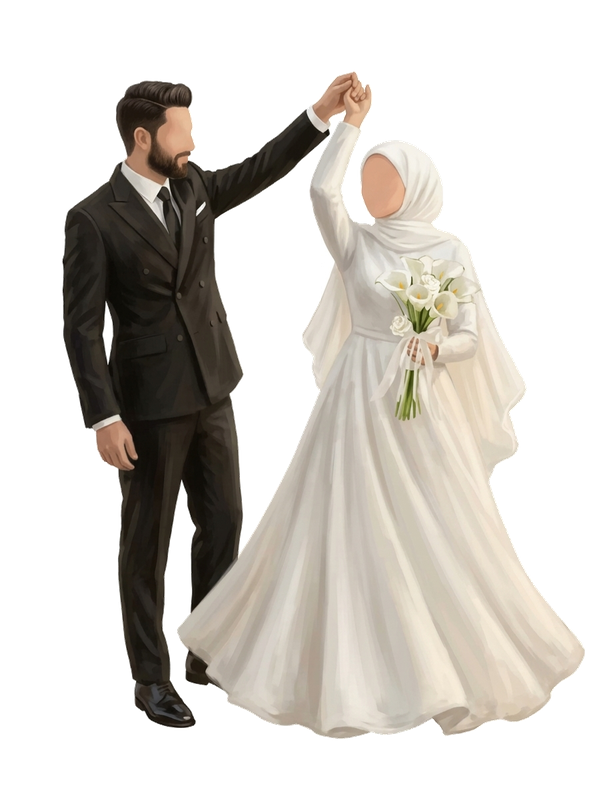
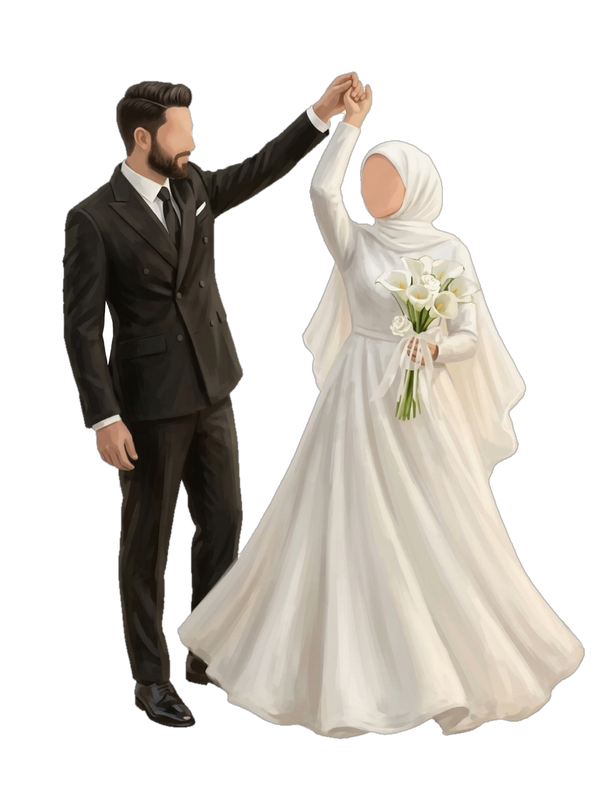
Use flawless high-resolution couple artwork on emerald arch

diff --git a/src/components/InteractiveFirstDance.jsx b/src/components/InteractiveFirstDance.jsx
@@ -2,15 +2,15 @@ import React, { useRef, useState, useEffect } from 'react';
 import confetti from 'canvas-confetti';
 import { Sparkles, Heart } from 'lucide-react';
 
-import coupleDanceGif from '../assets/images/couple-dance.gif';
+import coupleImage from '../assets/images/couple-dance.png';
 
 const InteractiveFirstDance = () => {
   const containerRef = useRef(null);
   const archRef = useRef(null);
-  const gifRef = useRef(null);
+  const imageRef = useRef(null);
   const particlesCanvasRef = useRef(null);
 
-  const [twirlCount, setTwirlCount] = useState(0);
+  const [celebrateCount, setCelebrateCount] = useState(0);
 
   // Sparkle particle system inside the arch
   useEffect(() => {
@@ -30,7 +30,7 @@ const InteractiveFirstDance = () => {
     window.addEventListener('resize', handleResize);
 
     // Ambient rising golden specks
-    const particles = Array.from({ length: 30 }, () => ({
+    const particles = Array.from({ length: 32 }, () => ({
       x: Math.random() * width,
       y: Math.random() * height,
       size: Math.random() * 2.2 + 0.8,
@@ -72,9 +72,9 @@ const InteractiveFirstDance = () => {
     };
   }, []);
 
-  // Trigger celebration confetti
+  // Trigger celebration confetti and gold glow
   const handleCelebrate = () => {
-    setTwirlCount((prev) => prev + 1);
+    setCelebrateCount((prev) => prev + 1);
 
     if (archRef.current) {
       const rect = archRef.current.getBoundingClientRect();
@@ -82,8 +82,8 @@ const InteractiveFirstDance = () => {
       const originY = (rect.top + rect.height * 0.5) / window.innerHeight;
 
       confetti({
-        particleCount: 28,
-        spread: 75,
+        particleCount: 30,
+        spread: 80,
         origin: { x: originX, y: originY },
         colors: ['#D4AF37', '#FCF6BA', '#F3D98B', '#FFFFFF', '#E8C868'],
         shapes: ['circle'],
@@ -118,7 +118,7 @@ const InteractiveFirstDance = () => {
         <div
           ref={archRef}
           onClick={handleCelebrate}
-          className="relative w-full h-[470px] sm:h-[550px] rounded-t-[140px] sm:rounded-t-[200px] rounded-b-2xl sm:rounded-b-3xl bg-gradient-to-b from-[#061812] via-[#09241B] to-[#040C08] border border-gold-primary/60 sm:border-2 shadow-gold-glow flex flex-col items-center justify-end overflow-hidden cursor-pointer group"
+          className="relative w-full h-[480px] sm:h-[560px] rounded-t-[140px] sm:rounded-t-[200px] rounded-b-2xl sm:rounded-b-3xl bg-gradient-to-b from-[#061812] via-[#09241B] to-[#040C08] border border-gold-primary/60 sm:border-2 shadow-gold-glow flex flex-col items-center justify-end overflow-hidden cursor-pointer group"
         >
           {/* Inner Moorish Arch Filigree Line */}
           <div className="pointer-events-none absolute inset-2 sm:inset-3 rounded-t-[132px] sm:rounded-t-[188px] rounded-b-xl sm:rounded-b-2xl border border-gold-primary/25" />
@@ -146,25 +146,25 @@ const InteractiveFirstDance = () => {
 
           {/* Floor Golden Spotlight Glow */}
           <div
-            className="absolute bottom-0 w-full h-44 pointer-events-none z-0"
+            className="absolute bottom-0 w-full h-48 pointer-events-none z-0"
             style={{
               background:
-                'radial-gradient(ellipse 70% 40% at 50% 90%, rgba(212, 175, 55, 0.35) 0%, rgba(212, 175, 55, 0.1) 50%, transparent 75%)',
+                'radial-gradient(ellipse 70% 45% at 50% 90%, rgba(212, 175, 55, 0.38) 0%, rgba(212, 175, 55, 0.12) 50%, transparent 75%)',
             }}
           />
 
-          {/* Animated Couple GIF Container */}
+          {/* Pristine Couple Image Container */}
           <div className="relative z-10 w-full h-full flex items-end justify-center pb-3 sm:pb-5">
-            <div className="relative w-full max-w-[340px] sm:max-w-[400px] aspect-[597/800] drop-shadow-[0_16px_32px_rgba(0,0,0,0.7)] flex items-center justify-center">
+            <div className="relative w-full max-w-[340px] sm:max-w-[400px] aspect-[597/800] drop-shadow-[0_18px_35px_rgba(0,0,0,0.75)] flex items-center justify-center">
               {/* Floor Shadow beneath couple */}
-              <div className="absolute bottom-2 left-1/2 -translate-x-1/2 w-[85%] h-6 rounded-[100%] bg-black/50 blur-[5px] pointer-events-none" />
+              <div className="absolute bottom-2 left-1/2 -translate-x-1/2 w-[85%] h-6 rounded-[100%] bg-black/60 blur-[6px] pointer-events-none" />
 
-              {/* The Couple GIF */}
+              {/* High-Resolution Couple Image */}
               <img
-                ref={gifRef}
-                src={coupleDanceGif}
-                alt="Groom and Bride First Dance"
-                className="w-full h-full object-contain pointer-events-none transition-transform duration-300 group-hover:scale-[1.02]"
+                ref={imageRef}
+                src={coupleImage}
+                alt="Mohammed Shaheer and Fathima Nidha"
+                className="w-full h-full object-contain pointer-events-none transition-transform duration-500 ease-out group-hover:scale-[1.025]"
                 draggable={false}
               />
             </div>
@@ -185,11 +185,11 @@ const InteractiveFirstDance = () => {
           </button>
 
           {/* Romantic Counter Badge */}
-          {twirlCount > 0 && (
+          {celebrateCount > 0 && (
             <div className="inline-flex items-center gap-1.5 font-cormorant italic text-sm sm:text-base text-gold-accent animate-fade-in">
               <Heart className="w-3.5 h-3.5 fill-gold-accent text-gold-accent inline" />
               <span>
-                Celebrated {twirlCount} {twirlCount === 1 ? 'time' : 'times'} with eternal blessings
+                Celebrated {celebrateCount} {celebrateCount === 1 ? 'time' : 'times'} with eternal blessings
               </span>
             </div>
           )}
